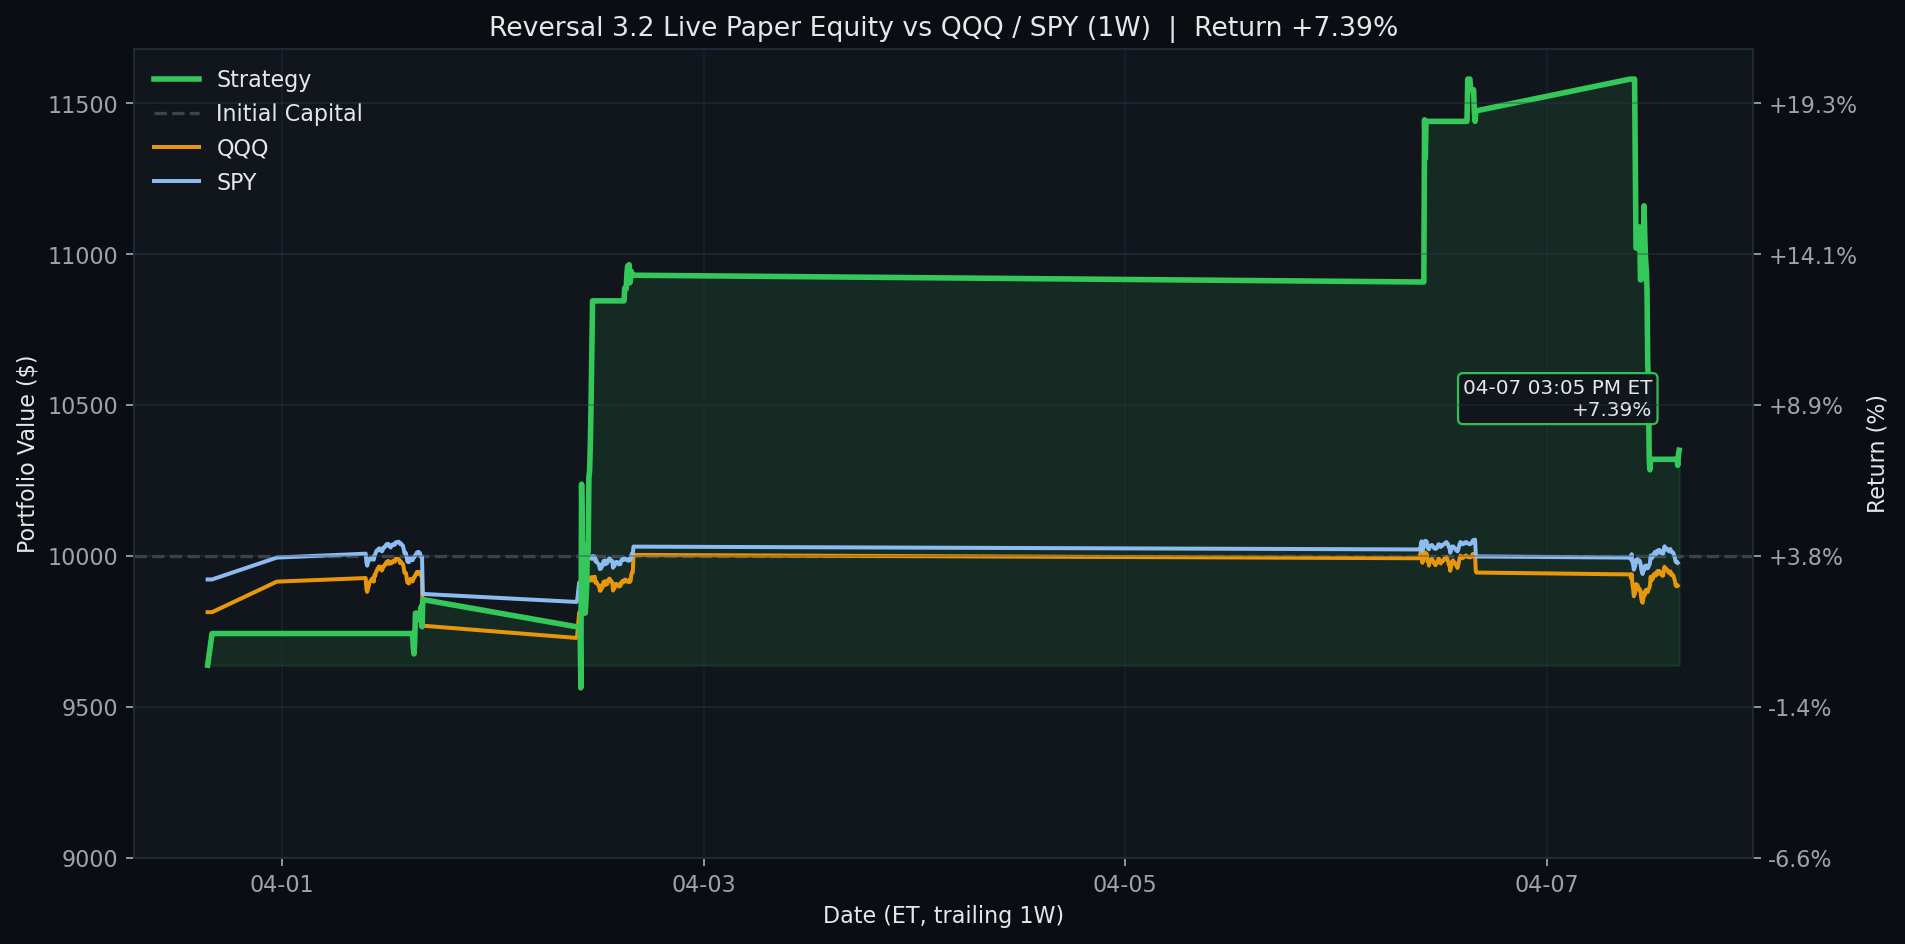
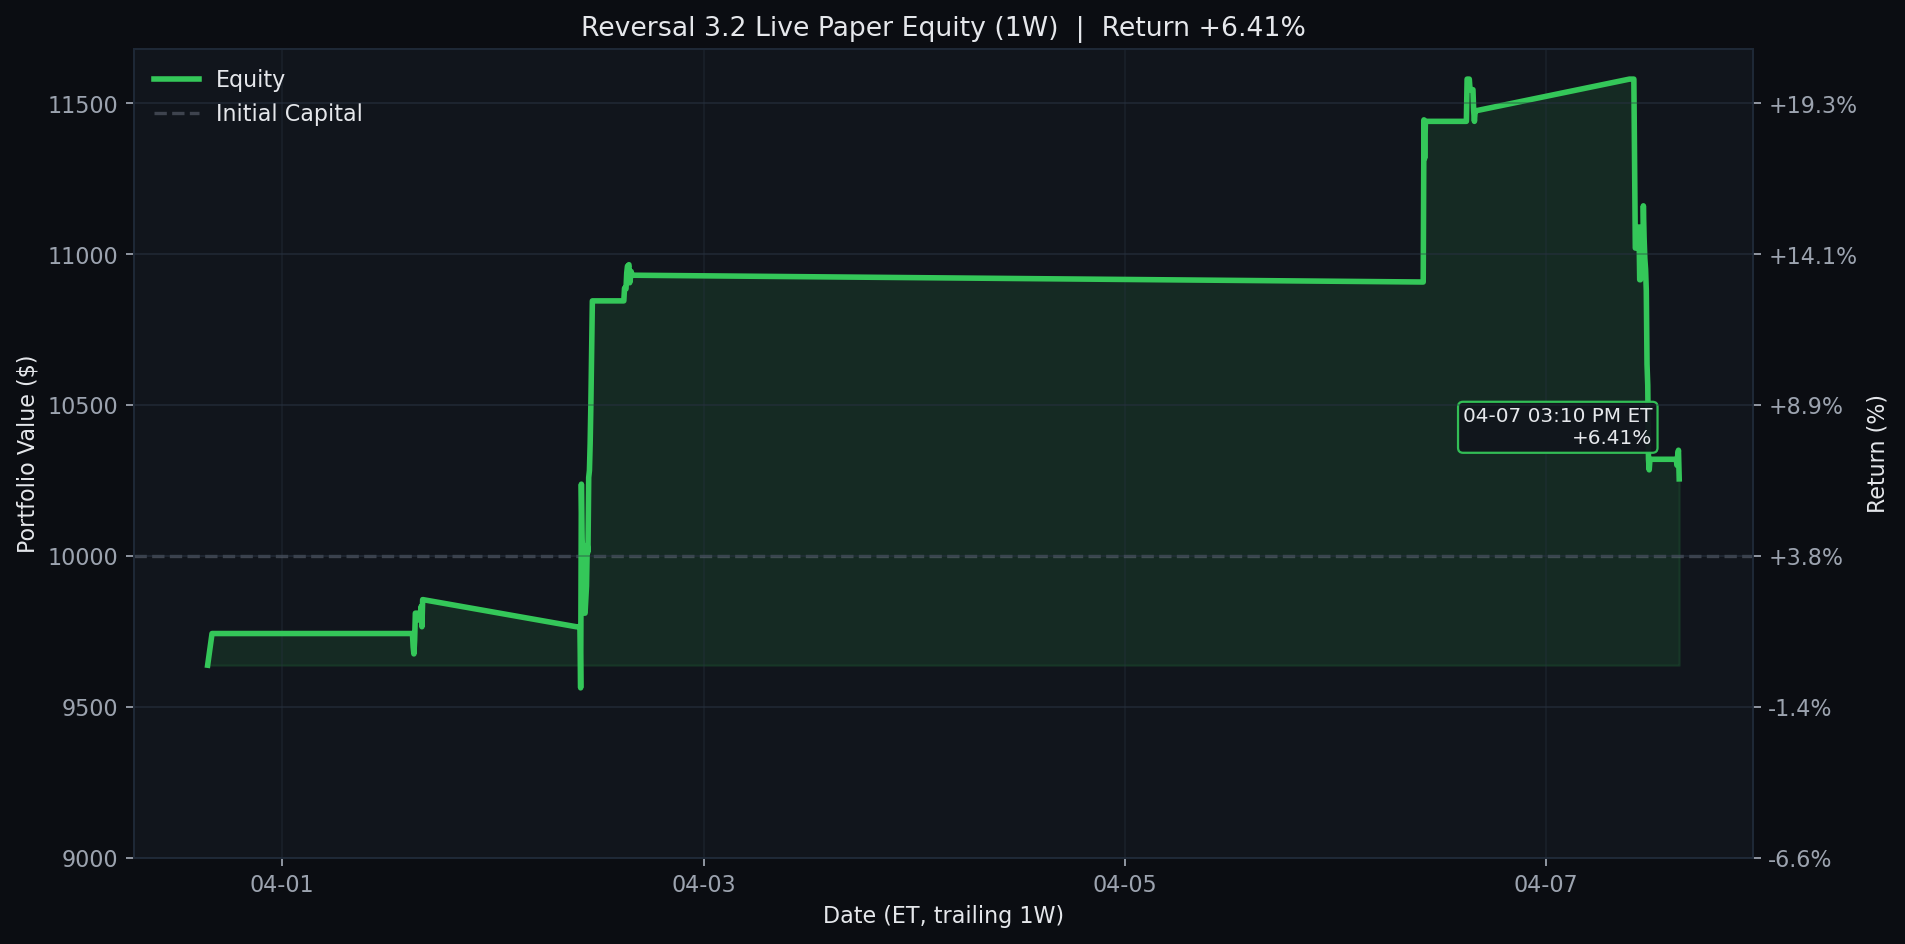
Update Reversal 3.2 live paper test 2026-04-07 15:10 ET

diff --git a/results/reversal_3_2_live/README.md b/results/reversal_3_2_live/README.md
@@ -1,7 +1,7 @@
 # Reversal 3.2 Live Paper Test
 
-Last updated (ET): `2026-04-07 15:09:52 EDT`
-Last processed slot: `manual_refresh`
+Last updated (ET): `2026-04-07 15:10:03 EDT`
+Last processed slot: `entry_1500`
 
 ## Active Configuration
 
@@ -20,16 +20,16 @@ Last processed slot: `manual_refresh`
 ## Portfolio Snapshot
 
 - Cash: `$5,640.00`
-- Equity: `$10,350.00`
+- Equity: `$10,255.00`
 - Realized PnL: `$320.00`
-- Unrealized PnL: `$-25.00`
+- Unrealized PnL: `$-65.00`
 - Open positions: `1`
 
 ## Open Positions
 
 ```text
 ticker     contract_symbol entry_trade_date  business_days_held  contracts  cash_spent  current_position_value  entry_option_price  current_option_price  entry_spot  current_spot  unrealized_pnl  unrealized_return_pct  success_rate  matched_signals  current_drop_pct  entry_iv_pct  current_iv_pct  rolling_sigma_20d_pct
-  TSLA TSLA260515C00340000       2026-04-07                   0          2      4680.0                  4655.0                23.4                 23.28      340.83         340.4           -25.0                  -0.53         100.0               13               3.4         51.95           52.07                  42.33
+  TSLA TSLA260515C00340000       2026-04-07                   0          2      4680.0                  4615.0                23.4                 23.08      340.83        340.64           -65.0                  -1.39         100.0               13               3.4         51.95           51.34                  42.33
 ```
 
 ## Today's Closed Trades (2026-04-07)
@@ -41,12 +41,27 @@ ticker    contract_symbol entry_trade_date_et exit_trade_date_et  entry_option_p
 
 ## Current Screener Snapshot
 
-_None_
+```text
+ticker  success_rate_%  matched_signals  current_drop_%  target_rebound_$  target_price  rolling_sigma_20d_%  call_candidate
+  TSLA          100.00               13            3.51              8.68        349.10                42.33            True
+  MRVL           96.43               28            1.59              1.22        108.99                70.84            True
+  REGN           96.00               25            1.28              6.81        760.12                25.24            True
+  NFLX           95.00               40            0.53              0.37         98.77                26.96            True
+  SBUX           94.29               35            0.66              0.44         94.59                40.32            True
+  NVDA           92.59               27            1.15              1.42        177.03                33.70            True
+  UPRO           92.00               25            2.19              1.55        100.08                53.86            True
+  GILD           91.67               12            1.42              1.39        139.53                20.18            True
+  MPWR           91.43               35            0.95              7.88       1176.65                51.99            True
+  COST           90.91               11            1.18              8.38       1014.96                13.04            True
+  CDNS           90.70               43            0.92              1.79        278.62                25.26            True
+  PCAR           88.89               36            0.79              0.65        118.04                21.97            True
+```
 
 ## Recent Events
 
 ```text
                     timestamp_et        slot   event_type                                                                                                                                                                           detail
+2026-04-07T15:10:03.881676-04:00  entry_1500 slot_skipped                                                                                                                                                  {"reason": "already_processed"}
 2026-04-07T15:05:00.890479-04:00  entry_1500 slot_skipped                                                                                                                                                  {"reason": "already_processed"}
 2026-04-07T15:00:05.890204-04:00  entry_1500 slot_skipped                                                                                                                                                  {"reason": "already_processed"}
 2026-04-07T14:55:00.887138-04:00  entry_1500 slot_skipped                                                                                                                                                  {"reason": "already_processed"}
@@ -56,30 +71,29 @@ _None_
 2026-04-07T14:30:00.927122-04:00 manage_1430 slot_skipped                                                                                                                                                  {"reason": "already_processed"}
 2026-04-07T14:25:01.881173-04:00 manage_1430 slot_skipped                                                                                                                                                  {"reason": "already_processed"}
 2026-04-07T14:10:00.879771-04:00 manage_1400 slot_skipped                                                                                                                                                  {"reason": "already_processed"}
-2026-04-07T14:05:03.892395-04:00 manage_1400 slot_skipped                                                                                                                                                  {"reason": "already_processed"}
 ```
 
 ## Equity Curves
 
-Each chart is generated from the same live equity series with no-lookahead marks and includes normalized QQQ / SPY benchmark overlays starting from the same initial capital. The latest point is annotated with its exact ET checkpoint time and return %.
+Each chart is generated from the same live equity series with no-lookahead marks. The latest point is annotated with its exact ET checkpoint time and return %.
 
 <details>
 <summary><strong>1D</strong></summary>
 
-![Reversal 3.2 Live Equity 1D](../../assets/reversal_3_2_live_equity_1d.png?v=20260407150952)
+![Reversal 3.2 Live Equity 1D](../../assets/reversal_3_2_live_equity_1d.png?v=20260407151003)
 
 </details>
 
 <details open>
 <summary><strong>1W</strong></summary>
 
-![Reversal 3.2 Live Equity 1W](../../assets/reversal_3_2_live_equity.png?v=20260407150952)
+![Reversal 3.2 Live Equity 1W](../../assets/reversal_3_2_live_equity.png?v=20260407151003)
 
 </details>
 
 <details>
 <summary><strong>1M</strong></summary>
 
-![Reversal 3.2 Live Equity 1M](../../assets/reversal_3_2_live_equity_1m.png?v=20260407150952)
+![Reversal 3.2 Live Equity 1M](../../assets/reversal_3_2_live_equity_1m.png?v=20260407151003)
 
 </details>

diff --git a/README.md b/README.md
@@ -3,10 +3,10 @@
 <!-- reversal-3.2-live:start -->
 ## Reversal 3.2 Live Paper Test
 
-- Last updated (ET): `2026-04-07 15:09:52 EDT`
-- Equity: `$10,350.00` | Realized: `$320.00` | Unrealized: `$-25.00` | Open positions: `1`
+- Last updated (ET): `2026-04-07 15:10:03 EDT`
+- Equity: `$10,255.00` | Realized: `$320.00` | Unrealized: `$-65.00` | Open positions: `1`
 - Today closed trades: `1`
-- Current slot: `manual_refresh`
+- Current slot: `entry_1500`
 - Universe: `qqq_plus_leverage_etfs`
 - Chart windows: `1D / 1W / 1M` (default open panel: `1W`)
 
@@ -14,27 +14,27 @@
 
 ```text
 ticker     contract_symbol  contracts  cash_spent  current_position_value  current_option_price  unrealized_pnl  unrealized_return_pct  business_days_held
-  TSLA TSLA260515C00340000          2      4680.0                  4655.0                 23.28           -25.0                  -0.53                   0
+  TSLA TSLA260515C00340000          2      4680.0                  4615.0                 23.08           -65.0                  -1.39                   0
 ```
 
 <details>
 <summary><strong>1D</strong></summary>
 
-![Reversal 3.2 Live Equity 1D](assets/reversal_3_2_live_equity_1d.png?v=20260407150952)
+![Reversal 3.2 Live Equity 1D](assets/reversal_3_2_live_equity_1d.png?v=20260407151003)
 
 </details>
 
 <details open>
 <summary><strong>1W</strong></summary>
 
-![Reversal 3.2 Live Equity 1W](assets/reversal_3_2_live_equity.png?v=20260407150952)
+![Reversal 3.2 Live Equity 1W](assets/reversal_3_2_live_equity.png?v=20260407151003)
 
 </details>
 
 <details>
 <summary><strong>1M</strong></summary>
 
-![Reversal 3.2 Live Equity 1M](assets/reversal_3_2_live_equity_1m.png?v=20260407150952)
+![Reversal 3.2 Live Equity 1M](assets/reversal_3_2_live_equity_1m.png?v=20260407151003)
 
 </details>
 
